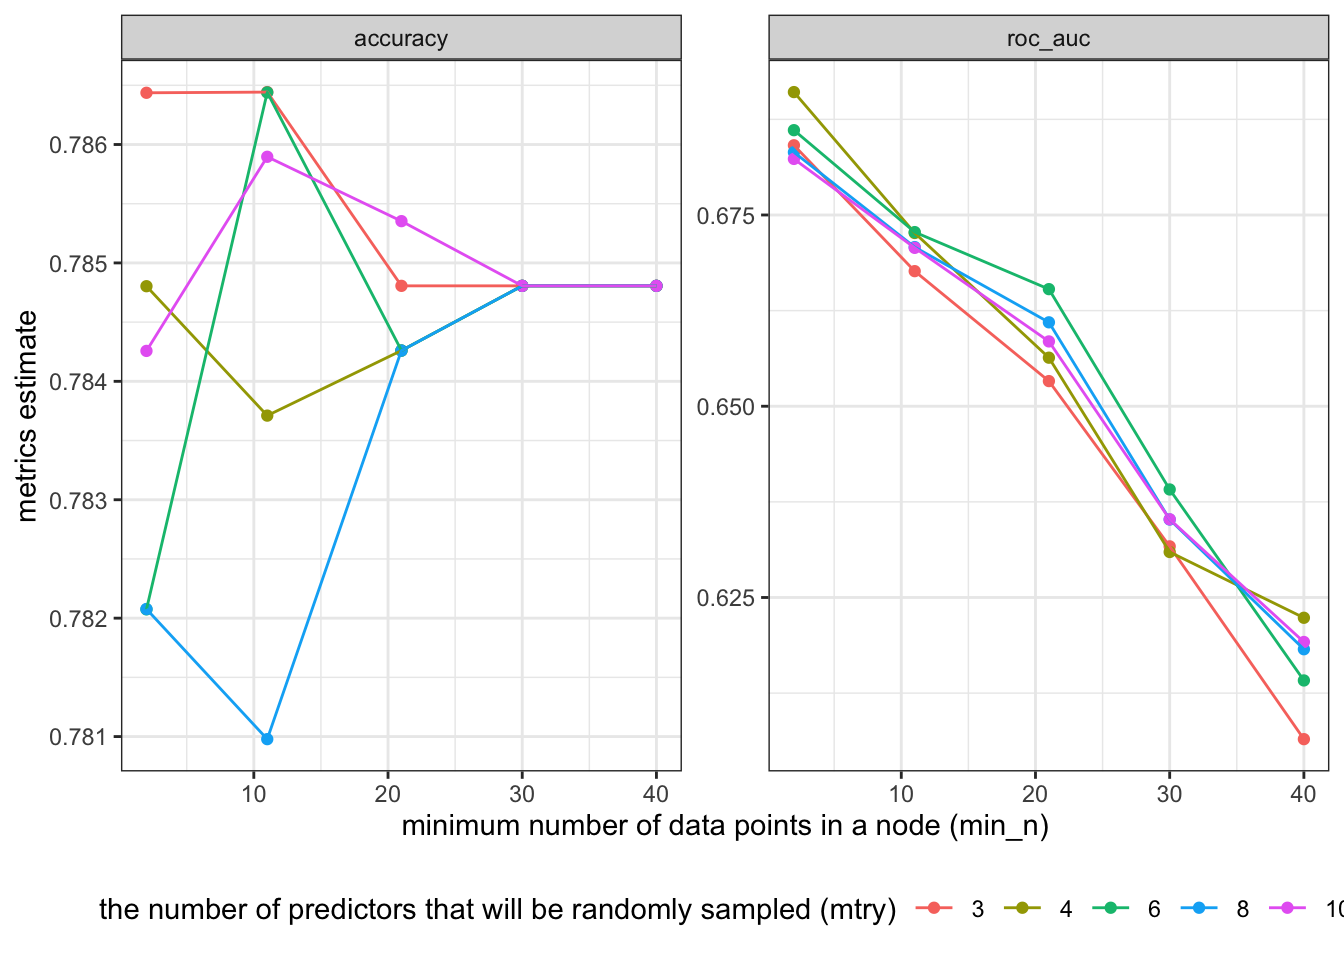
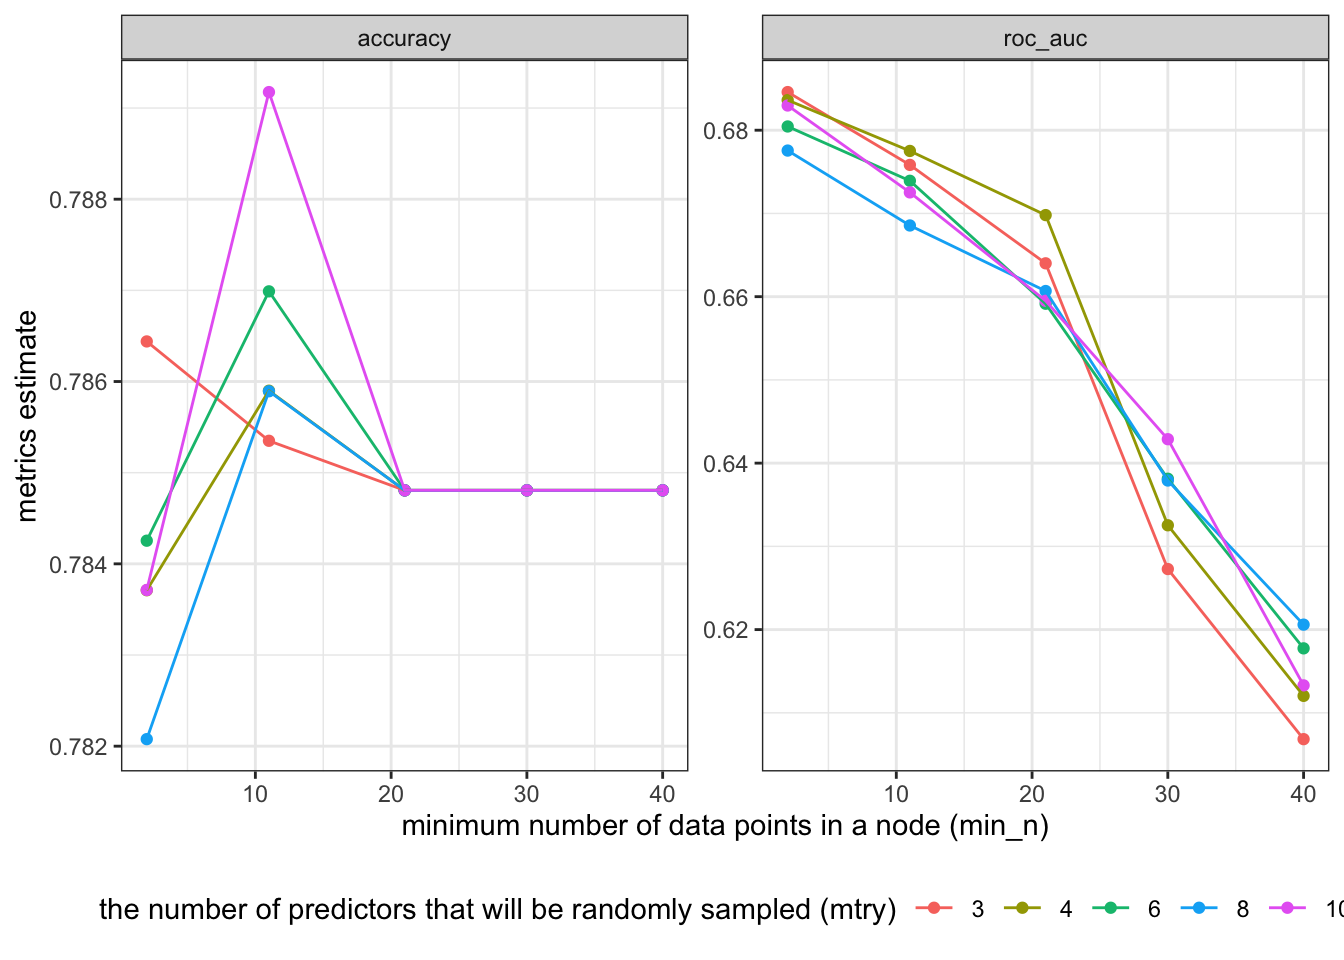
modify resamples and split order

diff --git a/content/post/2022-01-18-chocolate.html b/content/post/2022-01-18-chocolate.html
@@ -19,8 +19,8 @@ params:
 <li><a href="#clean-data">Clean Data</a></li>
 <li><a href="#explore-data">Explore Data</a></li>
 <li><a href="#ml">ML</a><ul>
-<li><a href="#recipe">recipe</a></li>
 <li><a href="#split-samples">split samples</a></li>
+<li><a href="#recipe">recipe</a></li>
 <li><a href="#grid-tune-xgboost">grid tune xgboost</a></li>
 <li><a href="#last_fit-model"><code>last_fit</code> model</a></li>
 <li><a href="#feature-importance">feature importance</a></li>
@@ -222,54 +222,6 @@ chocolate_clean %&gt;%
     select(rating_bl, company_manufacturer, country_of_bean_origin_blend, cocoa_percent, ingredient_num, contains(&#39;igrdt_&#39;), cocoa, creamy, fatty, earthy, sandy, sour, sweet) %&gt;% 
     select(-igrdt_cocoa, -igrdt_lecithin) %&gt;% 
     na.omit()</code></pre>
-<div id="recipe" class="section level3">
-<h3>recipe</h3>
-<pre class="r"><code>chocolate_rec &lt;- 
-    recipe(rating_bl ~ ., data = chocolate_df) %&gt;% 
-    step_other(company_manufacturer, threshold=0.01, other=&quot;otherCompany&quot;) %&gt;% 
-    # step_mutate_at(c(&quot;company_manufacturer&quot;,&quot;country_of_bean_origin_blend&quot;, &quot;rating_bl&quot;), fn = ~as.factor(.x)) %&gt;% 
-    step_dummy(all_nominal_predictors()) %&gt;% 
-    step_zv(all_predictors())
-
-chocolate_rec</code></pre>
-<pre><code>## Recipe
-## 
-## Inputs:
-## 
-##       role #variables
-##    outcome          1
-##  predictor         16
-## 
-## Operations:
-## 
-## Collapsing factor levels for company_manufacturer
-## Dummy variables from all_nominal_predictors()
-## Zero variance filter on all_predictors()</code></pre>
-<p>check preprocessed data.frame</p>
-<pre class="r"><code>chocolate_rec %&gt;% 
-    prep(new_data = NULL) %&gt;% 
-    juice()</code></pre>
-<pre><code>## # A tibble: 2,443 × 22
-##    cocoa_percent ingredient_num rating_bl company_manufactur… company_manufactu…
-##            &lt;dbl&gt;          &lt;dbl&gt; &lt;fct&gt;                   &lt;dbl&gt;              &lt;dbl&gt;
-##  1            76              3 &gt;=3                         0                  0
-##  2            76              3 &gt;=3                         0                  0
-##  3            76              3 &gt;=3                         0                  0
-##  4            68              3 &gt;=3                         0                  0
-##  5            72              3 &gt;=3                         0                  0
-##  6            80              3 &gt;=3                         0                  0
-##  7            68              3 &gt;=3                         0                  0
-##  8            70              4 &gt;=3                         0                  0
-##  9            63              4 &gt;=3                         0                  0
-## 10            70              4 &lt; 3                         0                  0
-## # … with 2,433 more rows, and 17 more variables:
-## #   company_manufacturer_Dandelion &lt;dbl&gt;, company_manufacturer_Fresco &lt;dbl&gt;,
-## #   company_manufacturer_Pralus &lt;dbl&gt;, company_manufacturer_Soma &lt;dbl&gt;,
-## #   company_manufacturer_otherCompany &lt;dbl&gt;,
-## #   country_of_bean_origin_blend_Non.blend &lt;dbl&gt;, igrdt_sugar_X1 &lt;dbl&gt;,
-## #   igrdt_vanilla_X1 &lt;dbl&gt;, igrdt_salt_X1 &lt;dbl&gt;, igrdt_sweeter_X1 &lt;dbl&gt;,
-## #   cocoa_X1 &lt;dbl&gt;, creamy_X1 &lt;dbl&gt;, fatty_X1 &lt;dbl&gt;, earthy_X1 &lt;dbl&gt;, …</code></pre>
-</div>
 <div id="split-samples" class="section level3">
 <h3>split samples</h3>
 <ul>
@@ -299,6 +251,54 @@ folds</code></pre>
 ##  8 &lt;split [1648/183]&gt; Fold08
 ##  9 &lt;split [1648/183]&gt; Fold09
 ## 10 &lt;split [1648/183]&gt; Fold10</code></pre>
+</div>
+<div id="recipe" class="section level3">
+<h3>recipe</h3>
+<pre class="r"><code>chocolate_rec &lt;- 
+    recipe(rating_bl ~ ., data = chocolate_train) %&gt;% 
+    step_other(company_manufacturer, threshold=0.01, other=&quot;otherCompany&quot;) %&gt;% 
+    # step_mutate_at(c(&quot;company_manufacturer&quot;,&quot;country_of_bean_origin_blend&quot;, &quot;rating_bl&quot;), fn = ~as.factor(.x)) %&gt;% 
+    step_dummy(all_nominal_predictors()) %&gt;% 
+    step_zv(all_predictors())
+
+chocolate_rec</code></pre>
+<pre><code>## Recipe
+## 
+## Inputs:
+## 
+##       role #variables
+##    outcome          1
+##  predictor         16
+## 
+## Operations:
+## 
+## Collapsing factor levels for company_manufacturer
+## Dummy variables from all_nominal_predictors()
+## Zero variance filter on all_predictors()</code></pre>
+<p>check preprocessed data.frame</p>
+<pre class="r"><code>chocolate_rec %&gt;% 
+    prep(new_data = NULL) %&gt;% 
+    juice()</code></pre>
+<pre><code>## # A tibble: 1,831 × 20
+##    cocoa_percent ingredient_num rating_bl company_manufactur… company_manufactu…
+##            &lt;dbl&gt;          &lt;dbl&gt; &lt;fct&gt;                   &lt;dbl&gt;              &lt;dbl&gt;
+##  1            70              4 &lt; 3                         0                  0
+##  2            70              4 &lt; 3                         0                  0
+##  3            60              3 &lt; 3                         0                  0
+##  4            70              2 &lt; 3                         0                  0
+##  5            70              2 &lt; 3                         0                  0
+##  6            75              4 &lt; 3                         0                  0
+##  7            75              4 &lt; 3                         0                  0
+##  8            75              5 &lt; 3                         0                  0
+##  9            75              5 &lt; 3                         0                  0
+## 10            65              6 &lt; 3                         0                  0
+## # … with 1,821 more rows, and 15 more variables:
+## #   company_manufacturer_Fresco &lt;dbl&gt;, company_manufacturer_Soma &lt;dbl&gt;,
+## #   company_manufacturer_otherCompany &lt;dbl&gt;,
+## #   country_of_bean_origin_blend_Non.blend &lt;dbl&gt;, igrdt_sugar_X1 &lt;dbl&gt;,
+## #   igrdt_vanilla_X1 &lt;dbl&gt;, igrdt_salt_X1 &lt;dbl&gt;, igrdt_sweeter_X1 &lt;dbl&gt;,
+## #   cocoa_X1 &lt;dbl&gt;, creamy_X1 &lt;dbl&gt;, fatty_X1 &lt;dbl&gt;, earthy_X1 &lt;dbl&gt;,
+## #   sandy_X1 &lt;dbl&gt;, sour_X1 &lt;dbl&gt;, sweet_X1 &lt;dbl&gt;</code></pre>
 </div>
 <div id="grid-tune-xgboost" class="section level3">
 <h3>grid tune xgboost</h3>
@@ -379,7 +379,7 @@ xg_wf</code></pre>
             )
     )</code></pre>
 <pre><code>##    user  system elapsed 
-## 137.026   1.136 141.611</code></pre>
+## 170.326   4.261 216.194</code></pre>
 <ul>
 <li>evaluate models</li>
 </ul>
@@ -405,7 +405,7 @@ xg_tune_hy</code></pre>
 <pre><code>## # A tibble: 1 × 3
 ##    mtry min_n .config              
 ##   &lt;int&gt; &lt;int&gt; &lt;chr&gt;                
-## 1     3    11 Preprocessor1_Model06</code></pre>
+## 1    10    11 Preprocessor1_Model10</code></pre>
 <p>finalize model using selected hyperparameters</p>
 <pre class="r"><code>final_wf &lt;- 
   xg_wf %&gt;% 
@@ -427,7 +427,7 @@ final_wf</code></pre>
 ## Boosted Tree Model Specification (classification)
 ## 
 ## Main Arguments:
-##   mtry = 3
+##   mtry = 10
 ##   min_n = 11
 ## 
 ## Computational engine: xgboost</code></pre>
@@ -455,7 +455,7 @@ final_fit</code></pre>
 <pre><code>## # A tibble: 2 × 4
 ##   .metric  .estimator .estimate .config             
 ##   &lt;chr&gt;    &lt;chr&gt;          &lt;dbl&gt; &lt;chr&gt;               
-## 1 accuracy binary         0.783 Preprocessor1_Model1
+## 1 accuracy binary         0.786 Preprocessor1_Model1
 ## 2 roc_auc  binary         0.668 Preprocessor1_Model1</code></pre>
 <p>metrics are comparable to training data, so not overfiting.</p>
 <ul>
@@ -466,16 +466,16 @@ final_fit</code></pre>
 <pre><code>## # A tibble: 612 × 7
 ##    id               `.pred_&lt; 3` `.pred_&gt;=3`  .row .pred_class rating_bl .config 
 ##    &lt;chr&gt;                  &lt;dbl&gt;       &lt;dbl&gt; &lt;int&gt; &lt;fct&gt;       &lt;fct&gt;     &lt;chr&gt;   
-##  1 train/test split      0.143        0.857     3 &gt;=3         &gt;=3       Preproc…
-##  2 train/test split      0.134        0.866    10 &gt;=3         &lt; 3       Preproc…
-##  3 train/test split      0.0882       0.912    11 &gt;=3         &lt; 3       Preproc…
-##  4 train/test split      0.131        0.869    17 &gt;=3         &gt;=3       Preproc…
-##  5 train/test split      0.0882       0.912    24 &gt;=3         &gt;=3       Preproc…
-##  6 train/test split      0.0882       0.912    25 &gt;=3         &gt;=3       Preproc…
-##  7 train/test split      0.0798       0.920    32 &gt;=3         &gt;=3       Preproc…
-##  8 train/test split      0.228        0.772    42 &gt;=3         &lt; 3       Preproc…
-##  9 train/test split      0.443        0.557    46 &gt;=3         &lt; 3       Preproc…
-## 10 train/test split      0.347        0.653    55 &gt;=3         &lt; 3       Preproc…
+##  1 train/test split      0.141        0.859     3 &gt;=3         &gt;=3       Preproc…
+##  2 train/test split      0.125        0.875    10 &gt;=3         &lt; 3       Preproc…
+##  3 train/test split      0.0668       0.933    11 &gt;=3         &lt; 3       Preproc…
+##  4 train/test split      0.156        0.844    17 &gt;=3         &gt;=3       Preproc…
+##  5 train/test split      0.0668       0.933    24 &gt;=3         &gt;=3       Preproc…
+##  6 train/test split      0.0668       0.933    25 &gt;=3         &gt;=3       Preproc…
+##  7 train/test split      0.0711       0.929    32 &gt;=3         &gt;=3       Preproc…
+##  8 train/test split      0.236        0.764    42 &gt;=3         &lt; 3       Preproc…
+##  9 train/test split      0.491        0.509    46 &gt;=3         &lt; 3       Preproc…
+## 10 train/test split      0.385        0.615    55 &gt;=3         &lt; 3       Preproc…
 ## # … with 602 more rows</code></pre>
 <ul>
 <li><code>roc_auc</code> and <code>roc_curve</code> on test data</li>
@@ -514,15 +514,15 @@ final_trained_wf</code></pre>
 ## 
 ## ── Model ───────────────────────────────────────────────────────────────────────
 ## ##### xgb.Booster
-## raw: 17.9 Kb 
+## raw: 22.1 Kb 
 ## call:
 ##   xgboost::xgb.train(params = list(eta = 0.3, max_depth = 6, gamma = 0, 
-##     colsample_bytree = 1, colsample_bynode = 0.157894736842105, 
+##     colsample_bytree = 1, colsample_bynode = 0.526315789473684, 
 ##     min_child_weight = 11L, subsample = 1, objective = &quot;binary:logistic&quot;), 
 ##     data = x$data, nrounds = 15, watchlist = x$watchlist, verbose = 0, 
 ##     nthread = 1)
 ## params (as set within xgb.train):
-##   eta = &quot;0.3&quot;, max_depth = &quot;6&quot;, gamma = &quot;0&quot;, colsample_bytree = &quot;1&quot;, colsample_bynode = &quot;0.157894736842105&quot;, min_child_weight = &quot;11&quot;, subsample = &quot;1&quot;, objective = &quot;binary:logistic&quot;, nthread = &quot;1&quot;, validate_parameters = &quot;TRUE&quot;
+##   eta = &quot;0.3&quot;, max_depth = &quot;6&quot;, gamma = &quot;0&quot;, colsample_bytree = &quot;1&quot;, colsample_bynode = &quot;0.526315789473684&quot;, min_child_weight = &quot;11&quot;, subsample = &quot;1&quot;, objective = &quot;binary:logistic&quot;, nthread = &quot;1&quot;, validate_parameters = &quot;TRUE&quot;
 ## xgb.attributes:
 ##   niter
 ## callbacks:
@@ -532,11 +532,11 @@ final_trained_wf</code></pre>
 ## nfeatures : 19 
 ## evaluation_log:
 ##     iter training_logloss
-##        1         0.603224
-##        2         0.554827
+##        1         0.602073
+##        2         0.552558
 ## ---                      
-##       14         0.475184
-##       15         0.474635</code></pre>
+##       14         0.469319
+##       15         0.468823</code></pre>
 <ul>
 <li><p><code>extract_*</code> information from <code>final_trained_wf</code></p>
 <ul>
@@ -546,15 +546,15 @@ final_trained_wf</code></pre>
 <pre class="r"><code>final_trained_wf %&gt;%
   extract_fit_engine()</code></pre>
 <pre><code>## ##### xgb.Booster
-## raw: 17.9 Kb 
+## raw: 22.1 Kb 
 ## call:
 ##   xgboost::xgb.train(params = list(eta = 0.3, max_depth = 6, gamma = 0, 
-##     colsample_bytree = 1, colsample_bynode = 0.157894736842105, 
+##     colsample_bytree = 1, colsample_bynode = 0.526315789473684, 
 ##     min_child_weight = 11L, subsample = 1, objective = &quot;binary:logistic&quot;), 
 ##     data = x$data, nrounds = 15, watchlist = x$watchlist, verbose = 0, 
 ##     nthread = 1)
 ## params (as set within xgb.train):
-##   eta = &quot;0.3&quot;, max_depth = &quot;6&quot;, gamma = &quot;0&quot;, colsample_bytree = &quot;1&quot;, colsample_bynode = &quot;0.157894736842105&quot;, min_child_weight = &quot;11&quot;, subsample = &quot;1&quot;, objective = &quot;binary:logistic&quot;, nthread = &quot;1&quot;, validate_parameters = &quot;TRUE&quot;
+##   eta = &quot;0.3&quot;, max_depth = &quot;6&quot;, gamma = &quot;0&quot;, colsample_bytree = &quot;1&quot;, colsample_bynode = &quot;0.526315789473684&quot;, min_child_weight = &quot;11&quot;, subsample = &quot;1&quot;, objective = &quot;binary:logistic&quot;, nthread = &quot;1&quot;, validate_parameters = &quot;TRUE&quot;
 ## xgb.attributes:
 ##   niter
 ## callbacks:
@@ -564,11 +564,11 @@ final_trained_wf</code></pre>
 ## nfeatures : 19 
 ## evaluation_log:
 ##     iter training_logloss
-##        1         0.603224
-##        2         0.554827
+##        1         0.602073
+##        2         0.552558
 ## ---                      
-##       14         0.475184
-##       15         0.474635</code></pre>
+##       14         0.469319
+##       15         0.468823</code></pre>
 <ul>
 <li><code>extract_fit_parsnip()</code> is parsnip model object</li>
 </ul>
@@ -576,17 +576,17 @@ final_trained_wf</code></pre>
   extract_fit_parsnip()</code></pre>
 <pre><code>## parsnip model object
 ## 
-## Fit time:  31ms 
+## Fit time:  37ms 
 ## ##### xgb.Booster
-## raw: 17.9 Kb 
+## raw: 22.1 Kb 
 ## call:
 ##   xgboost::xgb.train(params = list(eta = 0.3, max_depth = 6, gamma = 0, 
-##     colsample_bytree = 1, colsample_bynode = 0.157894736842105, 
+##     colsample_bytree = 1, colsample_bynode = 0.526315789473684, 
 ##     min_child_weight = 11L, subsample = 1, objective = &quot;binary:logistic&quot;), 
 ##     data = x$data, nrounds = 15, watchlist = x$watchlist, verbose = 0, 
 ##     nthread = 1)
 ## params (as set within xgb.train):
-##   eta = &quot;0.3&quot;, max_depth = &quot;6&quot;, gamma = &quot;0&quot;, colsample_bytree = &quot;1&quot;, colsample_bynode = &quot;0.157894736842105&quot;, min_child_weight = &quot;11&quot;, subsample = &quot;1&quot;, objective = &quot;binary:logistic&quot;, nthread = &quot;1&quot;, validate_parameters = &quot;TRUE&quot;
+##   eta = &quot;0.3&quot;, max_depth = &quot;6&quot;, gamma = &quot;0&quot;, colsample_bytree = &quot;1&quot;, colsample_bynode = &quot;0.526315789473684&quot;, min_child_weight = &quot;11&quot;, subsample = &quot;1&quot;, objective = &quot;binary:logistic&quot;, nthread = &quot;1&quot;, validate_parameters = &quot;TRUE&quot;
 ## xgb.attributes:
 ##   niter
 ## callbacks:
@@ -596,11 +596,11 @@ final_trained_wf</code></pre>
 ## nfeatures : 19 
 ## evaluation_log:
 ##     iter training_logloss
-##        1         0.603224
-##        2         0.554827
+##        1         0.602073
+##        2         0.552558
 ## ---                      
-##       14         0.475184
-##       15         0.474635</code></pre>
+##       14         0.469319
+##       15         0.468823</code></pre>
 <ul>
 <li><code>extract_recipe</code> or <code>extract_preprocessing</code> to get recipe/preprocessing</li>
 </ul>
